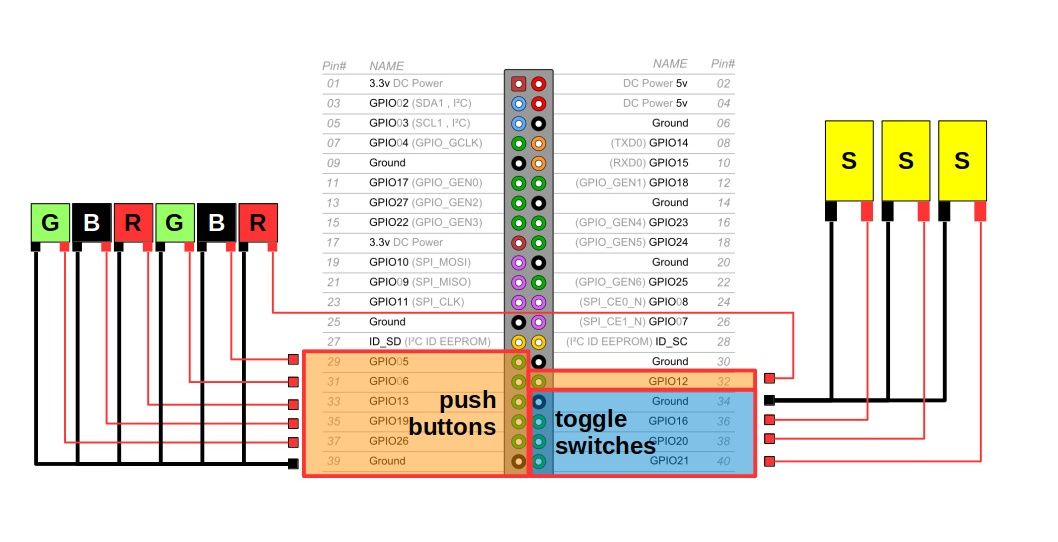
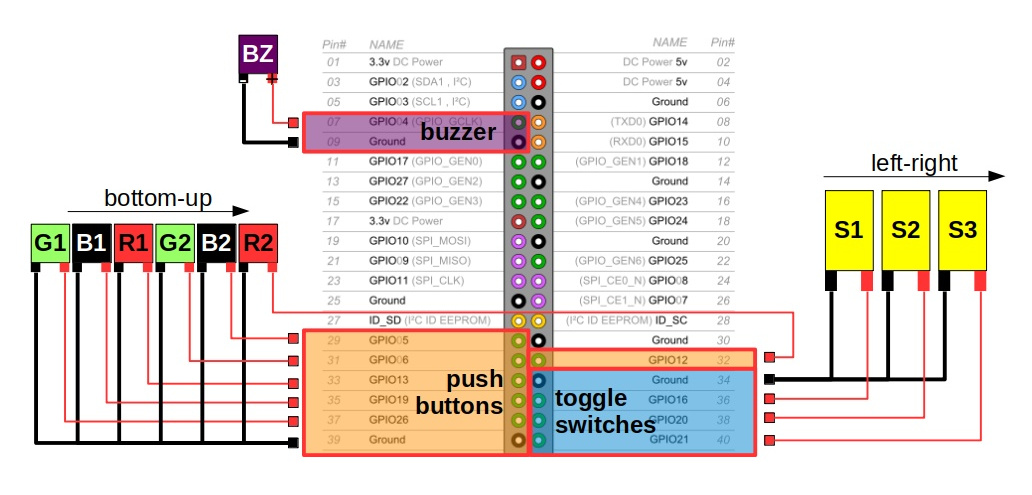
core version without external cmd execution

diff --git a/button-box.py b/button-box.py
@@ -1,0 +1,104 @@
+#!/usr/bin/python3
+from gpiozero import Button, Buzzer, Device, pi_info
+from gpiozero.pins.mock import MockFactory
+from gpiozero.tools import all_values, any_values
+# see signal for handling SIGINT
+from signal import pause
+from argparse import ArgumentParser
+# from subprocess import Popen, check_call
+# the following is required for keyboard input mode
+from pynput.keyboard import Key, Listener
+
+
+# TODO: add logging once everything is working
+def cli_args():
+	ap = ArgumentParser(description='RPi button box controller.')
+	ap.add_argument('--input', type=str, default='buttons', choices=['buttons', 'keyboard'], required=False,
+					help='User input method. Default = buttons')
+	ap.add_argument('--buzzer', type=int, default=None,
+					choices=[2, 3, 4, 17, 27, 22, 10, 9, 11, 14, 15, 18, 23, 24, 25, 8, 7], required=False,
+					help='GPIO# for an active buzzer. Default = None')
+	ap.add_argument('--info', type=str, default=False, choices=['True', 'False'], required=False,
+					help='Just print the board and headers information. Default = False')
+	return vars(ap.parse_args())
+
+
+# edit here if changing pins and keyboard keys
+def config_buttons():
+	if args['input'] is 'keyboard':
+		Device.pin_factory = MockFactory()
+	# set new Button class attributes
+	Button.key, Button.type = '', ''
+	# create Button devices and set their new attributes
+	g1, g1.key, g1.type = Button(26), 1, 'push'
+	b1, b1.key, b1.type = Button(19), 2, 'push'
+	r1, r1.key, r1.type = Button(13), 3, 'push'
+	g2, g2.key, g2.type = Button(6), 4, 'push'
+	b2, b2.key, b2.type = Button(5), 5, 'push'
+	r2, r2.key, r2.type = Button(12), 6, 'push'
+	s1, s1.key, s1.type = Button(16, hold_time=2), 7, 'switch'
+	s2, s2.key, s2.type = Button(20, hold_time=2), 8, 'switch'
+	s3, s3.key, s3.type = Button(21, hold_time=2), 9, 'switch'
+	return [g1, b1, r1, g2, b2, r2, s1, s2, s3]
+
+
+def end(msg=None, status=0):
+	# cleanup()
+	print('Ending the program with the following message:\n{}\n'.format(msg))
+	exit(status)
+
+
+def event_held():
+	print('event held')
+
+
+def event_press():
+	print('event press')
+
+
+def event_release():
+	print('event release')
+
+
+# user input collector
+def keyboard_collector(btns):
+	with Listener(on_press=keyboard_press, on_release=keyboard_release, suppress=True):
+		print('#################################################')
+		print('################# KEYBOARD MODE #################')
+		print('#################################################')
+		print('Use your keyboard keys to simulate the button box.'
+			'\n\nTo EXIT, press the \"ESC\" key.'
+			'\nButton : Key mappings:\n')
+		for btn in btns:
+			print('* {0} : {1}'.format(btn.pin, btn.key))
+		print('\n#################################################\nWaiting for an input...')
+		Listener.join()
+
+
+def keyboard_press(key):
+	if key is Key.esc:
+		end(msg='User pressed Escape in keyboard input mode', status=0)
+	print('Pressing key: {}'.format(key))
+
+
+def keyboard_release(key):
+	print('Releasing key: {}'.format(key))
+
+
+def main():
+	# config_logging()
+	buttons = config_buttons()
+	if args['buzzer']:
+		buzzer, buzzer.source = Buzzer(args['buzzer']), any_values(buttons)
+	for button in buttons:
+		if button.type is 'switch':
+			button.when_held = event_held
+		else:
+			button.when_pressed, button.when_released = event_press, event_release
+	pause() if args['input'] is 'buttons' else keyboard_collector(buttons)
+
+
+if '__name__' == '__main__':
+	args = cli_args()
+	print('{0:board}\n0:headers'.format(pi_info())) if args['info'] else main()
+	exit(0)
